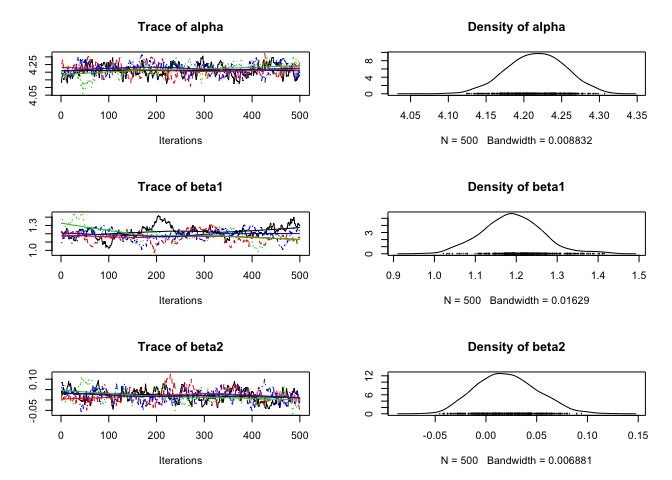
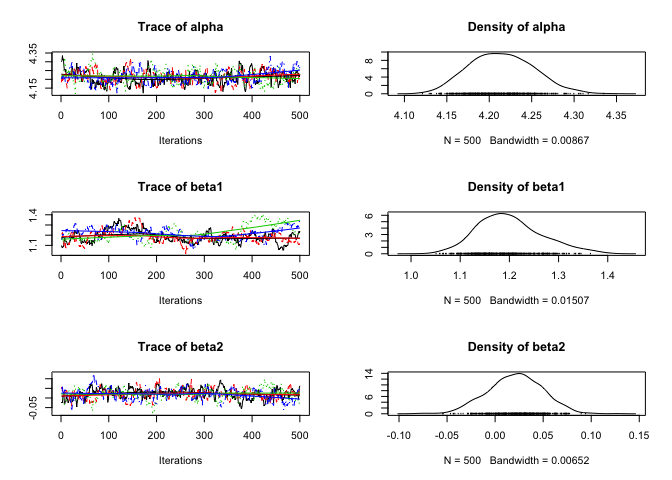
demonstration

diff --git a/README.md b/README.md
@@ -68,13 +68,13 @@ glance(analysis)
 #> 1    40     5     NA    NA       0      TRUE
 tidy(analysis)
 #> # A tibble: 5 × 5
-#>              term    estimate  std.error  statistic p.value
-#> *           <chr>       <dbl>      <dbl>      <dbl>   <dbl>
-#> 1           alpha  4.21692422 0.03810367 110.653814  0.0005
-#> 2           beta1  1.18963236 0.07367380  16.152516  0.0005
-#> 3           beta2  0.01918109 0.02968810   0.694137  0.5160
-#> 4           beta3 -0.27225452 0.03744825  -7.267770  0.0005
-#> 5 log_sDispersion -2.26572399 0.31702219  -7.252330  0.0005
+#>              term    estimate  std.error   statistic p.value
+#> *           <chr>       <dbl>      <dbl>       <dbl>   <dbl>
+#> 1           alpha  4.21323796 0.03740485 112.6727994  0.0005
+#> 2           beta1  1.19360012 0.06574060  18.2675089  0.0005
+#> 3           beta2  0.02170486 0.02831082   0.7317959  0.4450
+#> 4           beta3 -0.27350006 0.03383068  -8.1927415  0.0005
+#> 5 log_sDispersion -2.20955017 0.27933347  -7.9751722  0.0005
 
 year <- predict(analysis, new_data = new_data(data, "Year"))
 
